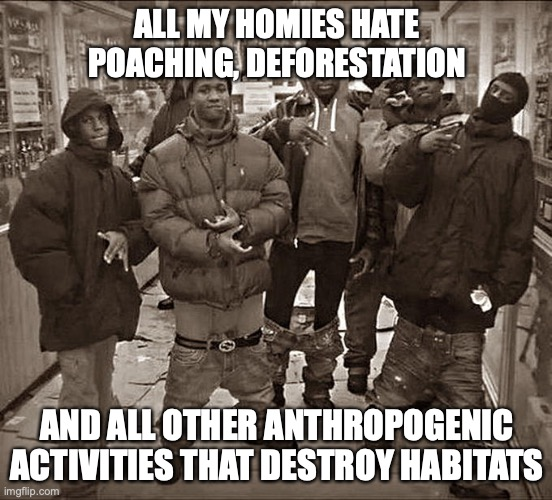
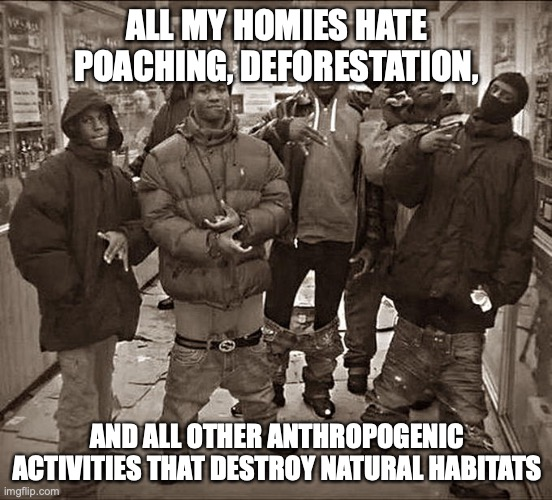
final changes made. +changed 1 test to maintain design

Changed region(s): [[0.0, 0.81, 0.9855, 0.99], [0.1232, 0.0, 0.8931, 0.18]]

diff --git a/index.html b/index.html
@@ -1,25 +1,26 @@
 <!DOCTYPE html>
 <html>
    <head>
+      <link rel="stylesheet" type="text/css" href="styles.css">
       <title>We&nbsp;Love&nbsp;Elephants</title>
    </head>
    <body>
       <header>
-      <h1>The Life of African Elephants</h1>
-      <img>
-         <img src="images/cuddly_elephants.jpg" alt="Affectionate elephants">
-      </img>
-      <nav>
-         <ol role="list">
-            <li><a href=#general>About African elephants</a></li>
-            <li><a href="#babies">Baby African elephants</a></li>
-            <li><a href="#diet">The African elephant diet</a></li>
-            <li><a href="#fun">How African elephants play</a></li>
-            <li><a href="#death">How African elephants handle death</a></li>
-            <li><a href="#threats">Man's role on endangerment</a></li>
-            <li><a href="#keystone">Why African elephants are important to their ecosystems</a></li>
-         </ol>
-      </nav>
+         <h1 id="mainHeading">A Page About African Elephants</h1>
+         
+            <img src="images/cuddly_elephants.jpg">
+
+         <nav>
+            <ol id="navlinks">
+               <li id="link">&#127757;<a href=#general>About African elephants</a>&#127759;</li>
+               <li id="link">&#127757;<a href="#babies">Baby African elephants</a>&#127759;</li>
+               <li id="link">&#127757;<a href="#diet">The African elephant diet</a>&#127759;</li>
+               <li id="link">&#127757;<a href="#fun">How African elephants play</a>&#127759;</li>
+               <li id="link">&#127757;<a href="#death">How African elephants handle death</a>&#127759;</li>
+               <li id="link">&#127757;<a href="#threats">Man's role on endangerment</a>&#127759;</li>
+               <li id="link">&#127757;<a href="#keystone">Why African elephants are important to their ecosystems</a>&#127759;</li>
+            </ol>
+         </nav>
       </header>
 
       <main>
@@ -28,7 +29,7 @@
 
             <article id="general">
                <img src="images/standing_in_plain.jpg" alt="African savanna elephant walking through plain">
-               
+
                <h2>About African Elephants</h2>
                <p>African elephants are the largest living terrestrial animals that walk the Earth. 
                African elephants (<em>Loxodonta</em>) are a genus comprised of two living species, 
@@ -36,9 +37,16 @@
                Savanna elephants are generally 10-13 feet tall while forest elephants are generally smaller at 8-10 feet tall. Savanna elephants live in a variety of habitats ranging
                from wooded savannas to forests and deserts. Forest elephants prefer to live in dense rain forests, they also sport thinner and straighter tusks than those of savanna elephants.
                </p>
-         
-               <img src="images/forest_tusks.jpg" alt="Forest elephant tusks"></img>
-               <img src="images/savanna_tusks.jpg" alt="Savanna elephant tusks"></img>
+
+               <figure>
+                  <img src="images/forest_tusks.jpg" alt="Forest elephant tusks"></img>
+                  <figcaption>fig. 1 - African forest elephant tusks.</figcaption>
+               </figure>
+
+               <figure>
+                  <img src="images/savanna_tusks.jpg" alt="Savanna elephant tusks"></img>
+                  <figcaption>fig. 2 - African savanna elephant tusks.</figcaption>
+               </figure>
             </article>
 
 
@@ -51,7 +59,7 @@
                   Baby elephants, called calves, can weigh around 200 lbs (91 kg) and stand at 3 feet (1m) tall at birth. Baby elephants are intelligent and fun-loving. 
                   For the first few months of their lives, they live by their mother's side and comsume as much as 3 gallons of their mother's milk per day. 
                   Elephants are a matriarchal species, meaning they move in female led groups. Calves are reared by their mothers and other female elephants in their herd. 
-                  Though, baby elephants are generally closest to their mothers, learning social behaviors and adapting skills from them directly. (Fun fact: baby elephants often suck on the tips of trunks for comfort, much like human babies suck their thumbs)
+                  Though, baby elephants are generally closest to their mothers, learning social behaviors and adapting skills from them directly. (Fun fact: baby elephants often suck on the tips of trunks for comfort, much like human babies suck their thumbs).
                </p>
             </article>
 
@@ -60,8 +68,8 @@
                <img src="images/eating.jpg" alt="African forest elephant grazing on twigs.">
 
                <h2>The African Elephant Diet</h2>
-               <p>African elephants have a diet that mostly consists of vegitation.</p>
-               <p>Here's a list of some of the African elephants' favorite foods</p>
+               <p class="funParagraph">African elephants have a diet that mostly consists of vegitation.
+               Here's a list of some of the African elephants' favorite foods</p>
                <ul>
                   <li>Twigs</li>
                   <li>Roots</li>
@@ -103,7 +111,10 @@
 
 
             <article id="death">
+               <figure>
                <img src="images/grieving.jpg" alt="Herd of African elephants mourning the loss of a loved one.">
+               <figcaption>fig. 3 - Herd of African elephants mourning the loss of a loved one.</figcaption>
+               </figure>
 
                <h2>How African Elephants Handle Death</h2>
                <p>African Forest elephants treat death like something sacred. African elephants are known 
@@ -115,7 +126,10 @@
 
 
             <article id="threats">
+               <figure>
                <img src="images/Daily Maverick-poached_elephant.jpg" alt="African elephant fallen due to poachers.">
+               <figcaption>fig. 4 - African elephant fallen due to poachers.</figcaption>
+               </figure>
 
                <h2>Humans Have Endangered the African Elephant</h2>
                <ul>
@@ -149,8 +163,13 @@
                   fruit trees pass through their digestive tract and sit in their dung until the conditions are right for them to grow. Since elephants travel frequently, the seeds that germinate
                   in their dung travel far and wide. This dispersion of seeds makes African elephants important gardeners for their ecosystems.
                </p>
-               <!-- <img src="images/elephant_art.jpg" alt="Artwork by the author of this site: African forest elephant bearing the weight of its ecosystem on its back as it grieves the loss of another who has died 
-               in a deforested landscape by an apparent watermelon filled with cyanide. Poachers crouch in the trees upon its back, holding poached tusks, others ready to shoot."> -->
+
+               <figure>
+               <img src="images/elephant_art.jpg" alt="Artwork by the author of this site: African forest elephant bearing the weight of its ecosystem on its back as it grieves the loss of another who has died 
+               in a deforested landscape by an apparent watermelon filled with cyanide. Poachers crouch in the trees upon its back, holding poached tusks, others ready to shoot.">
+               <figcaption>fig. 5 - Artwork by the author of this site</figcaption>
+               </figure>
+               
             </article>
          </div>
 
@@ -159,11 +178,11 @@
          <img src="images/drink.jpg" alt="African savanna elephant taking a drink from a pond.">
 
          <h3>Want to help? Here's some links to charities that are dedicated to saving elephants</h3>
-         <ul>
-            <li><a href="https://www.elephantvoices.org/about-elephantvoices.html">About Elephant Voices</a></li>
-            <li><a href="https://www.sheldrickwildlifetrust.org/about">About Sheldrick Wildlife Trust</a></li>
-            <li><a href="https://www.savetheelephants.org/about-ste-2/">About Save the Elephants</a></li>
-            <li><a href="https://www.nature.org/en-us/about-us/where-we-work/africa/promise-for-elephants/">About The Nature Conservancy</a></li>
+         <ul id="footlinks">
+            <li>&#128024;<a href="https://www.elephantvoices.org/about-elephantvoices.html">About Elephant Voices</a>&#128144;</li>
+            <li>&#128024;<a href="https://www.sheldrickwildlifetrust.org/about">About Sheldrick Wildlife Trust</a>&#128144;</li>
+            <li>&#128024;<a href="https://www.savetheelephants.org/about-ste-2/">About Save the Elephants</a>&#128144;</li>
+            <li>&#128024;<a href="https://www.nature.org/en-us/about-us/where-we-work/africa/promise-for-elephants/">About The Nature Conservancy</a>&#128144;</li>
          </ul>
 
          <img src="images/meme.jpg" alt="Meme: All my homies hate poaching, deforestation, and all other anthropogenic activities that destroy habitats.">

diff --git a/styles.css b/styles.css
@@ -1,1 +1,60 @@
 /* Write your CSS here! */
+html {
+    background-color: #E2E2E2;
+}
+
+#mainHeading {
+margin: auto;
+padding: auto;
+text-align: center;
+}
+
+#navlinks {
+    list-style-type: none;
+    margin: auto;
+    padding: 0pt;
+}
+
+body {
+margin: 8px;
+display: block;
+}
+
+p {
+    margin: auto;
+    border: 1px solid green;
+    background-color: lightgrey;
+}
+
+h2 {
+    text-align: center;
+}
+
+img {
+    display: block;
+  margin-left: auto;
+  margin-right: auto;
+  width: 50%;
+}
+
+.funParagraph {
+    color: green;
+}
+
+#link {
+    display: block;
+    text-align: center;
+}
+
+figcaption {
+    text-align: center;
+}
+
+footer {
+    text-align: center;
+}
+
+#footlinks {
+    text-align: center;
+    list-style-type: none;
+}

diff --git a/spec/grading.spec.js b/spec/grading.spec.js
@@ -69,9 +69,9 @@ describe ("Grading Tests: ", function () {
       expect(window.getComputedStyle(funParagraphElement).color).toEqual("green");
    })
 
-   it("CSS mainHeading id is red", function() {
+   it("CSS mainHeading id is black", function() {
       let headingElement = container.getElementById("mainHeading");
-      expect(window.getComputedStyle(headingElement).color).toEqual("red");
+      expect(window.getComputedStyle(headingElement).color).toEqual("black");
    })
 
    it("HTML includes HTML entities", function() {
